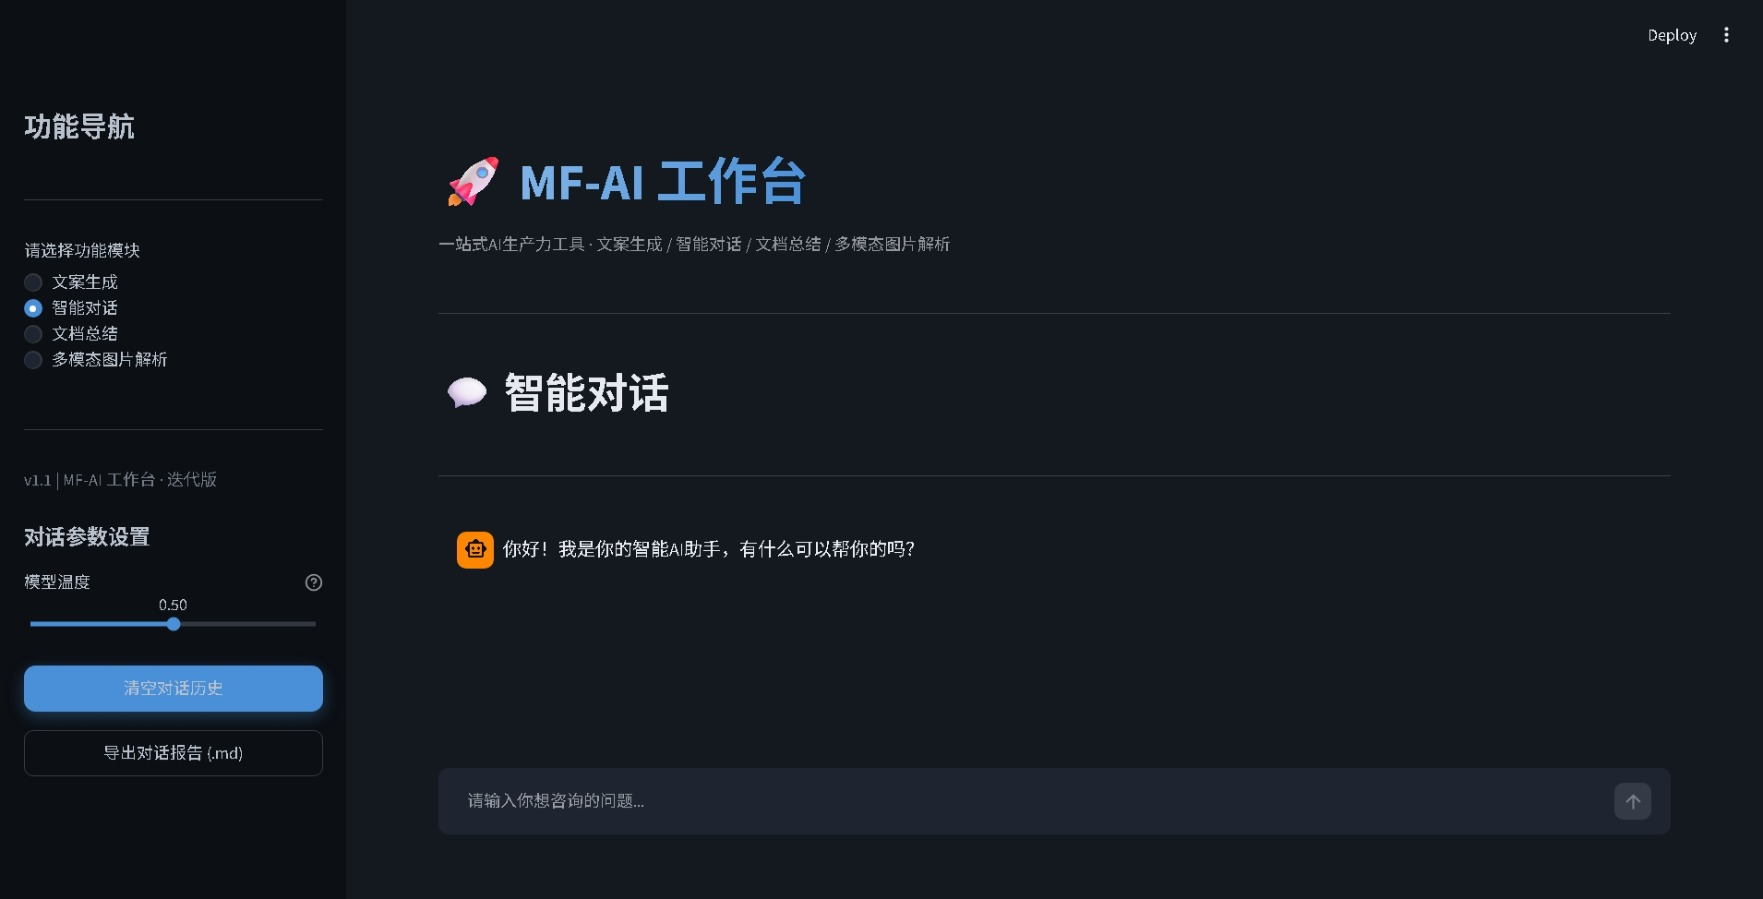
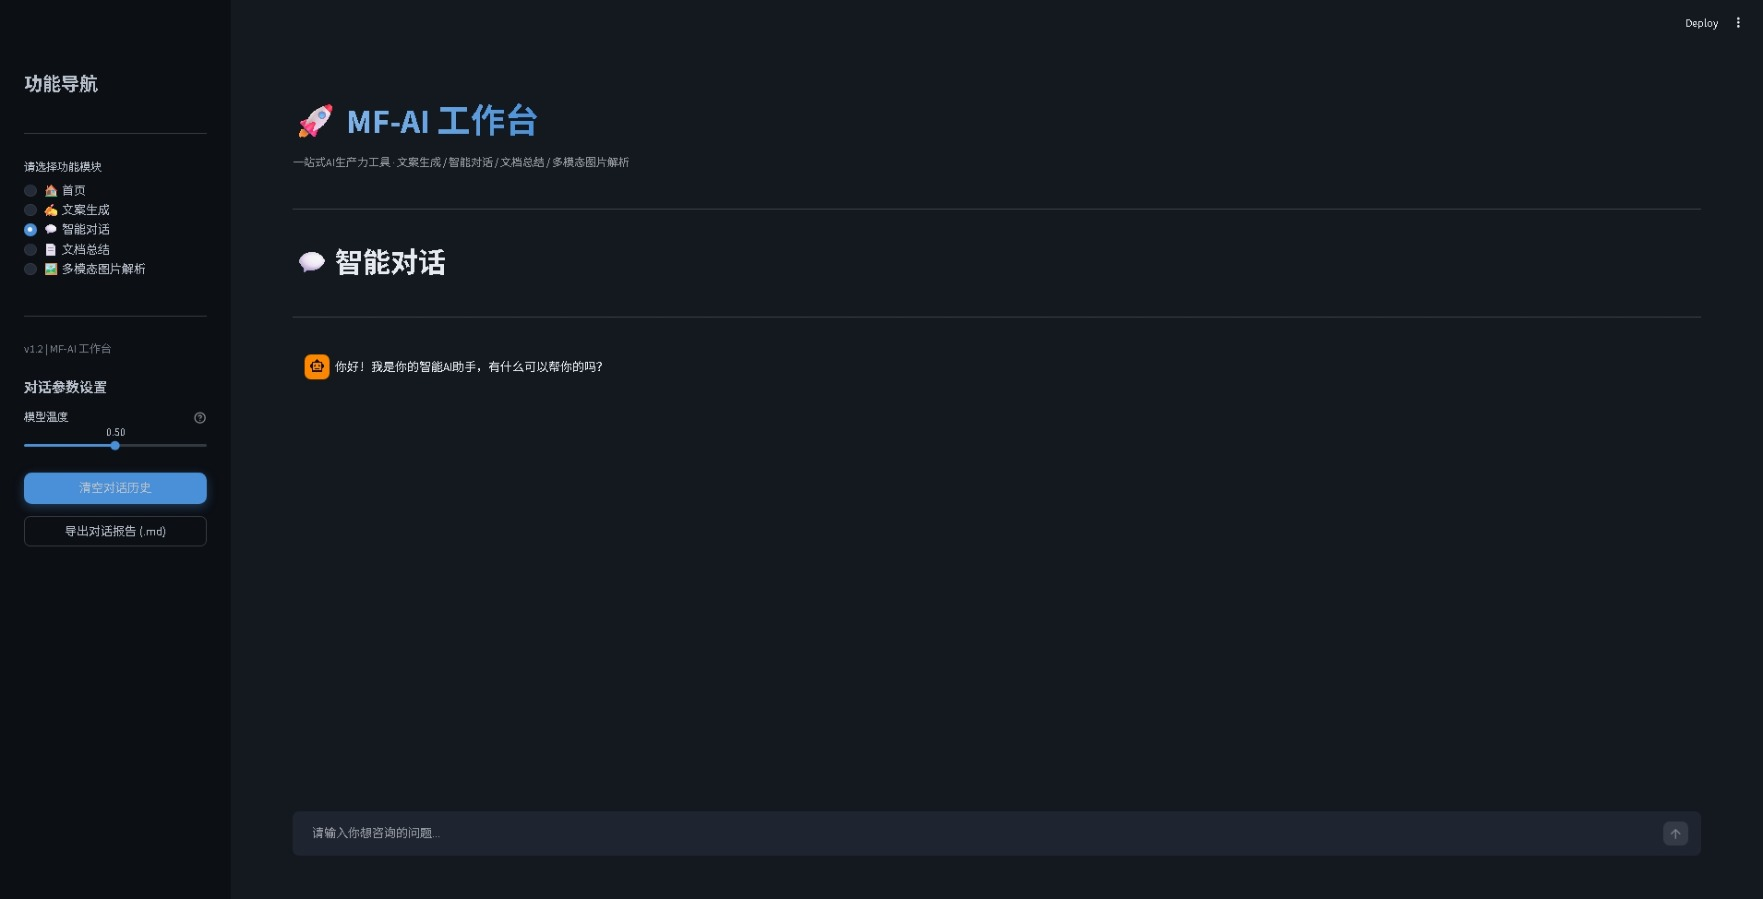
feat:迭代优化 + 完善README与项目结构

diff --git a/modules/home.py b/modules/home.py
@@ -1,0 +1,98 @@
+"""
+首页模块
+工作台落地页：展示四大功能入口、快速开始引导
+"""
+import streamlit as st
+
+
+def _feature_card(emoji: str, title: str, desc: str, features: list):
+    """渲染单个功能卡片（深色主题：石板灰底 + 钢蓝描边）"""
+    feature_html = "".join(f"<li>{f}</li>" for f in features)
+    st.markdown(
+        f"""
+        <div style="
+            background-color:#1F2530;
+            border:1px solid #2E3A52;
+            border-left:3px solid #4A90D9;
+            border-radius:12px;
+            padding:18px 20px;
+            margin-bottom:16px;
+            min-height:210px;
+        ">
+            <div style="font-size:26px; margin-bottom:6px;">{emoji}</div>
+            <div style="font-size:18px; font-weight:700; color:#E6E9EF; margin-bottom:8px;">{title}</div>
+            <div style="font-size:13px; color:#9AA7BD; line-height:1.6; margin-bottom:10px;">{desc}</div>
+            <ul style="font-size:13px; color:#B8C0CC; line-height:1.8; margin:0; padding-left:18px;">
+                {feature_html}
+            </ul>
+        </div>
+        """,
+        unsafe_allow_html=True
+    )
+
+
+def render_home_interface():
+    """渲染首页工作台"""
+    # 欢迎区
+    st.markdown(
+        """
+        <div style="
+            background: linear-gradient(135deg, #16213A 0%, #1F2530 100%);
+            border:1px solid #2E3A52;
+            border-radius:14px;
+            padding:28px 32px;
+            margin-bottom:26px;
+        ">
+            <div style="font-size:22px; font-weight:700; color:#E6E9EF; margin-bottom:10px;">
+                👋 欢迎使用 MF-AI 工作台
+            </div>
+            <div style="font-size:14px; color:#9AA7BD; line-height:1.8;">
+                一站式 AI 生产力工具，集成 <b style="color:#7FB3E8;">文案生成</b>、
+                <b style="color:#7FB3E8;">智能对话</b>、
+                <b style="color:#7FB3E8;">文档总结</b>、
+                <b style="color:#7FB3E8;">多模态图片解析</b> 四大能力。
+                从左侧边栏选择功能即可开始，所有接口兼容 OpenAI 格式。
+            </div>
+        </div>
+        """,
+        unsafe_allow_html=True
+    )
+
+    # 四大功能卡片：2 列 × 2 行
+    st.markdown("#### 🧭 功能导航")
+    col1, col2 = st.columns(2)
+    with col1:
+        _feature_card(
+            "✍", "文案生成",
+            "6 大高频场景的专属 Prompt，一键生成高质量营销/职场文案。",
+            ["小红书 / 公众号 / 短视频脚本", "商务邮件 / 工作总结 / 通用文案", "支持风格、字数、多版本差异化"]
+        )
+        _feature_card(
+            "📄", "文档总结",
+            "上传文档自动提炼核心内容，支持多种总结模式。",
+            ["支持 PDF / DOCX / TXT", "精简 / 详细 / 大纲 / 要点四种模式", "结果可一键下载"]
+        )
+    with col2:
+        _feature_card(
+            "💬", "智能对话",
+            "流式多轮对话，历史本地持久化，结构化输出。",
+            ["打字机流式输出，上下文记忆", "刷新/重启不丢失对话历史", "一键导出 Markdown 对话报告"]
+        )
+        _feature_card(
+            "🖼", "多模态图片解析",
+            "调用多模态大模型，识别图片内容、文字与细节。",
+            ["整体描述 / OCR 文字提取", "内容问答 / 细节深度分析", "支持 JPG / PNG / JPEG"]
+        )
+
+    # 快速开始
+    st.markdown("#### 🚀 快速开始")
+    step1, step2, step3 = st.columns(3)
+    with step1:
+        st.info("**第 1 步**\n\n在左侧边栏选择需要的功能模块")
+    with step2:
+        st.info("**第 2 步**\n\n填写需求、上传文档或图片")
+    with step3:
+        st.info("**第 3 步**\n\n点击生成，结果可下载或导出")
+
+    st.divider()
+    st.caption("MF-AI 工作台 v1.1 · 基于 Streamlit + OpenAI 兼容接口 · 仅供学习实战使用")

diff --git a/app.py b/app.py
@@ -5,6 +5,7 @@
 版本：v1.0
 """
 import streamlit as st
+from modules.home import render_home_interface
 from modules.chat_module import render_chat_interface
 from modules.document_summary import render_document_summary_interface
 from modules.copywriting_gen import render_copywriting_gen_interface
@@ -83,27 +84,29 @@ def main():
     # 渲染页面头部
     render_page_header()
 
-    # 侧边栏模块导航（v1.1：按使用频率重排，高频模块置顶，减少用户点击成本）
+    # 侧边栏模块导航
     with st.sidebar:
         st.title("功能导航")
         st.divider()
-        # 模块选择：文案生成 > 智能对话 > 文档总结 > 多模态图片解析
+        # v1.2：新增首页工作台作为默认落地页；其余按使用频率排列
         selected_module = st.radio(
             "请选择功能模块",
-            options=["文案生成", "智能对话", "文档总结", "多模态图片解析"],
+            options=["🏠 首页", "✍ 文案生成", "💬 智能对话", "📄 文档总结", "🖼 多模态图片解析"],
             index=0
         )
         st.divider()
-        st.caption("v1.1 | MF-AI 工作台 · 迭代版")
+        st.caption("v1.2 | MF-AI 工作台")
 
     # 根据选择渲染对应模块界面
-    if selected_module == "文案生成":
+    if selected_module == "🏠 首页":
+        render_home_interface()
+    elif selected_module == "✍ 文案生成":
         render_copywriting_gen_interface()
-    elif selected_module == "智能对话":
+    elif selected_module == "💬 智能对话":
         render_chat_interface()
-    elif selected_module == "文档总结":
+    elif selected_module == "📄 文档总结":
         render_document_summary_interface()
-    elif selected_module == "多模态图片解析":
+    elif selected_module == "🖼 多模态图片解析":
         render_multimodal_parser_interface()
 
 # 程序入口

diff --git a/README.md b/README.md
@@ -11,7 +11,11 @@
 | 📄 文档总结 | 支持 PDF / DOCX / TXT，4 种总结模式（精简 / 详细 / 大纲 / 要点），可下载结果 |
 | 🖼 多模态图片解析 | 支持 JPG / PNG / JPEG，整体描述 / OCR 提取 / 内容问答 / 细节分析 |
 
-## 🆕 v1.1 迭代记录
+## 🆕 v1.2 迭代记录
+
+1. **新增首页工作台**：应用打开即落地页，含欢迎横幅、四大功能卡片导航、快速开始引导，不再直接进入子模块。
+
+### v1.1 迭代记录
 
 1. **界面**：侧边栏按使用频率重排，高频「文案生成」置顶；全新深蓝黑主题（侧边栏 / 卡片 / 主背景四色分层）。
 2. **功能**：智能对话新增「一键导出对话报告」，生成带时间戳、轮次编号的 Markdown 报告。
@@ -36,6 +40,7 @@
 mf-ai-platform/
 ├── app.py                     # 主入口：页面配置、主题、侧边栏导航
 ├── modules/
+│   ├── home.py                # 首页工作台（落地页 + 功能导航）
 │   ├── chat_module.py         # 智能对话（流式输出 + 持久化 + 导出报告）
 │   ├── copywriting_gen.py     # 文案生成（6 场景化 Prompt）
 │   ├── document_summary.py    # 文档总结（PDF/DOCX/TXT）
